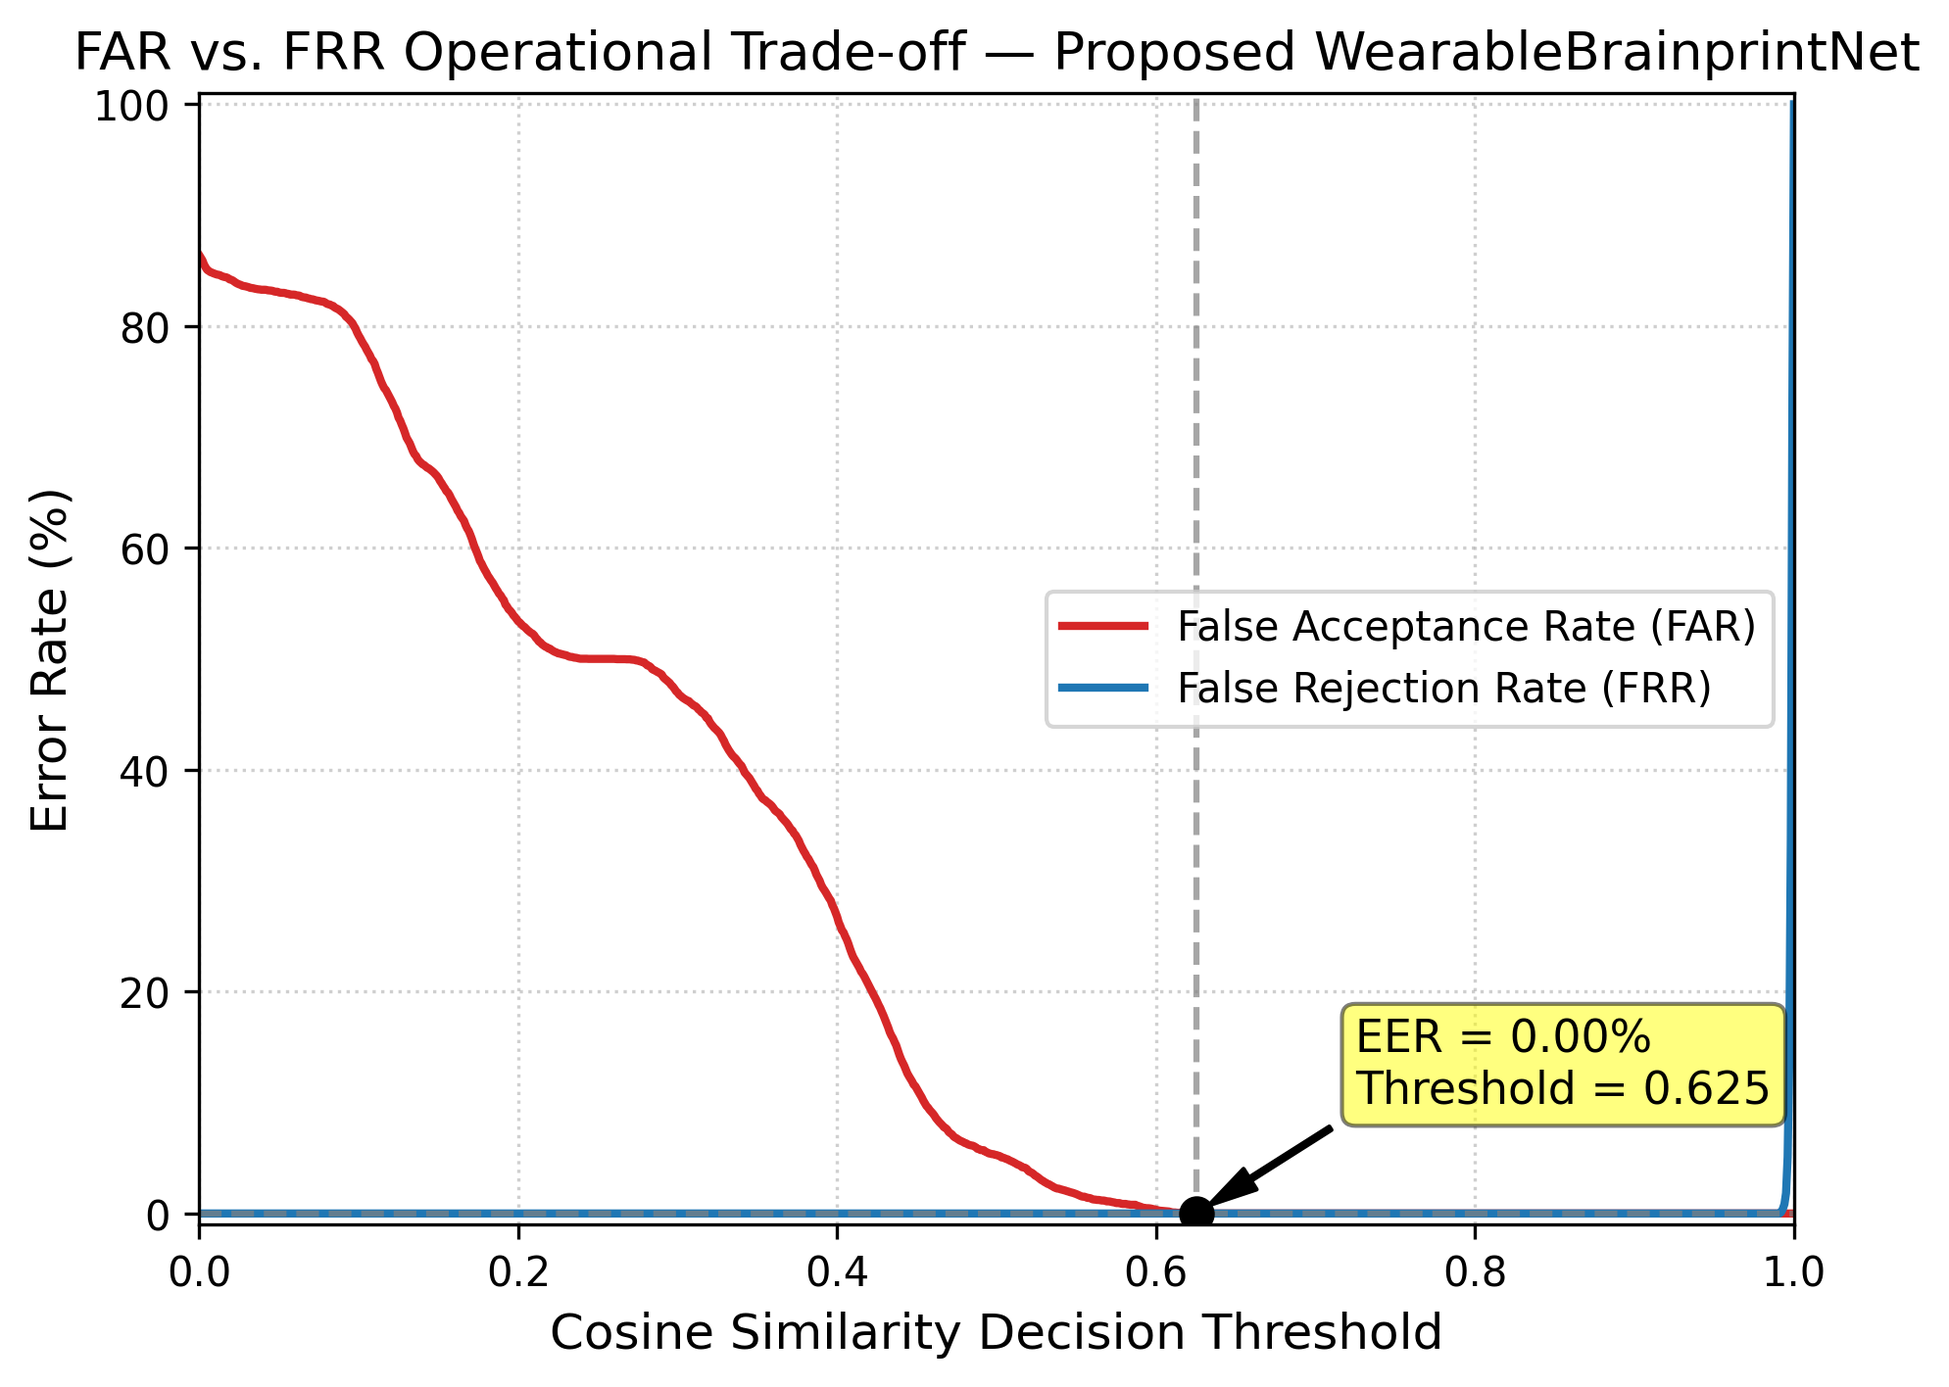
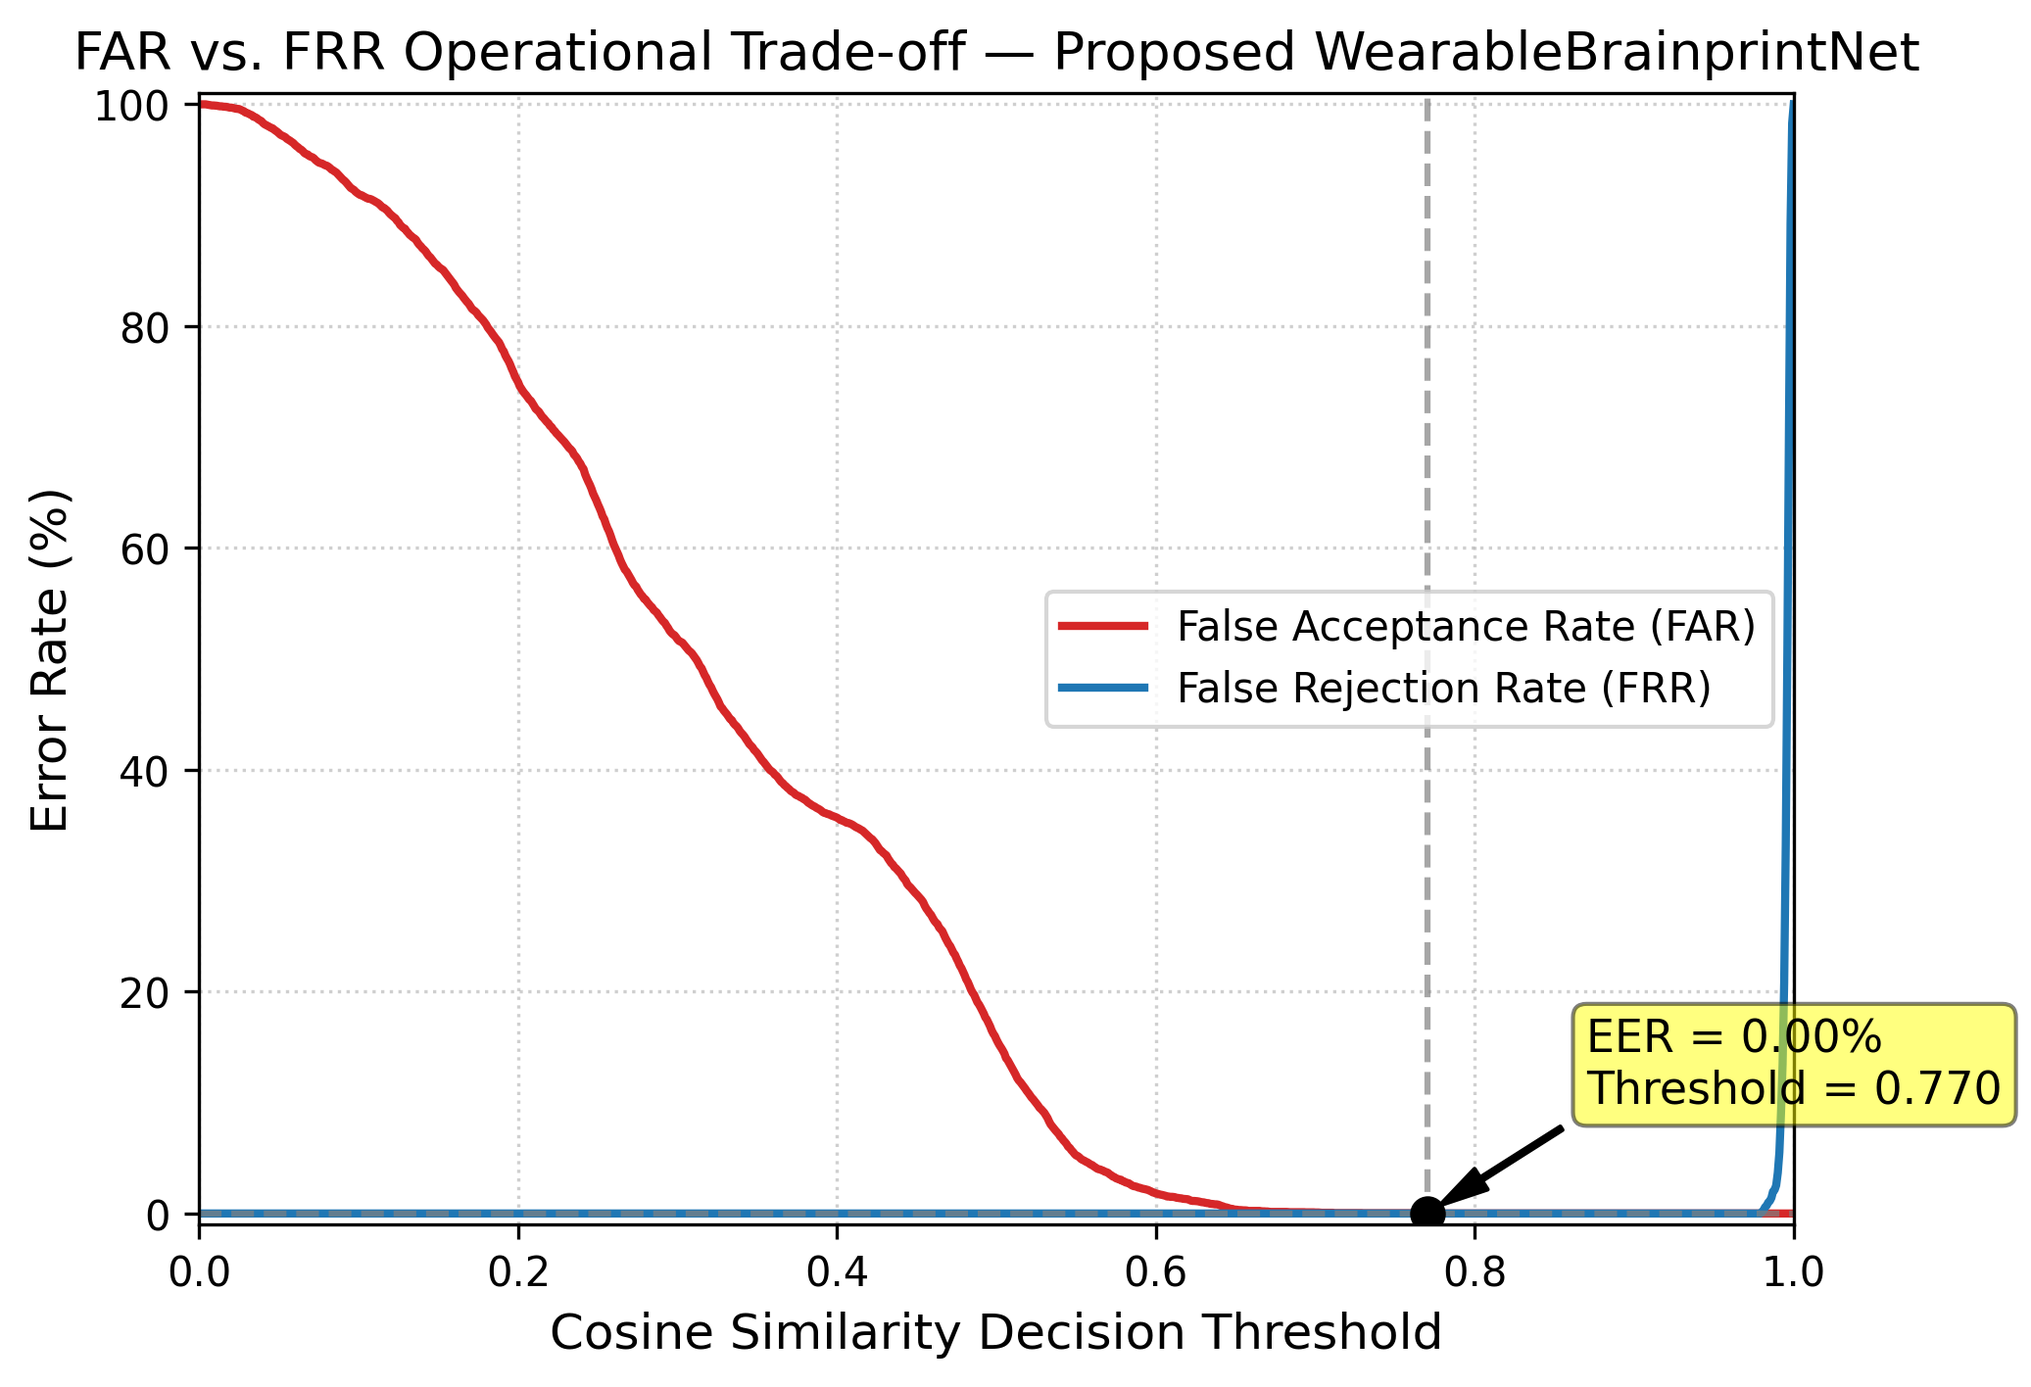
Enhance: add tunable drift difficulty knob, BED dataset loader, and updated benchmark figures

diff --git a/data/bed_dataset_loader.py b/data/bed_dataset_loader.py
@@ -1,0 +1,136 @@
+"""
+BED (Biometric EEG Dataset) Loader Module.
+Reference:
+  Arnau-González, P., et al. (2021). "BED: A Dataset for EEG-Based Biometrics."
+  IEEE Internet of Things Journal, 8(15), 12232-12242.
+  Available on Zenodo: https://zenodo.org/records/4451416
+
+Dataset Profile:
+  - 21 healthy human subjects.
+  - 3 independent recording sessions separated by ~1 week (ideal for LOSO-CV).
+  - 14 channels recorded via Emotiv EPOC+ headset at 256 Hz.
+  - Our wearable 8-channel montage (AF3, AF4, F3, F4, T7, T8, P7, P8) is an exact subset
+    of the 14 EPOC+ channels!
+"""
+
+import os
+import glob
+import numpy as np
+import scipy.signal as signal
+from typing import Dict, List, Tuple, Optional
+from config.settings import FrameworkConfig
+from data.preprocessing import EEGPreprocessor
+from data.segmentation import EEGSegmenter
+
+class BEDDatasetLoader:
+    """
+    Loads and standardizes the real-world BED dataset for longitudinal consumer EEG biometrics.
+    """
+    # 14-Channel Emotiv EPOC+ montage in BED
+    EMOTIV_14_CHANNELS = [
+        "AF3", "F7", "F3", "FC5", "T7", "P7", "O1",
+        "O2", "P8", "T8", "FC6", "F4", "F8", "AF4"
+    ]
+
+    # Target 8-channel subset used across our framework
+    TARGET_8_CHANNELS = [
+        "AF3", "AF4", "F3", "F4", "T7", "T8", "P7", "P8"
+    ]
+
+    def __init__(self, data_dir: str, config: Optional[FrameworkConfig] = None):
+        self.data_dir = data_dir
+        self.config = config or FrameworkConfig()
+        self.fs_bed = 256 # Native BED sampling frequency
+        self.fs_target = self.config.preprocessing.sampling_rate # 250 Hz
+
+        # Compute index mapping from 14 channels to our 8 channels
+        self.channel_indices = [
+            self.EMOTIV_14_CHANNELS.index(ch) for ch in self.TARGET_8_CHANNELS
+        ]
+
+        self.preprocessor = EEGPreprocessor(self.config.preprocessing)
+        self.segmenter = EEGSegmenter(self.config.preprocessing)
+
+    def extract_target_channels(self, raw_14ch_data: np.ndarray) -> np.ndarray:
+        """
+        Extracts the 8 wearable channels from 14-channel recording:
+        Input shape: (14, Samples) -> Output shape: (8, Samples)
+        """
+        return raw_14ch_data[self.channel_indices, :]
+
+    def resample_to_target(self, signal_data: np.ndarray) -> np.ndarray:
+        """
+        Resamples from 256 Hz to 250 Hz if needed.
+        """
+        if self.fs_bed == self.fs_target:
+            return signal_data
+        num_target_samples = int(signal_data.shape[1] * (self.fs_target / self.fs_bed))
+        return signal.resample(signal_data, num_target_samples, axis=1)
+
+    def load_subject_session(
+        self,
+        subject_id: int,
+        session_id: int
+    ) -> Optional[np.ndarray]:
+        """
+        Loads raw recording for a given subject and session from data_dir.
+        Supports CSV and NumPy format exported from Zenodo BED archives.
+        """
+        patterns = [
+            os.path.join(self.data_dir, f"sub_{subject_id:02d}_ses_{session_id:02d}*.csv"),
+            os.path.join(self.data_dir, f"s{subject_id}_s{session_id}*.npy"),
+            os.path.join(self.data_dir, f"sub-{subject_id:02d}", f"ses-{session_id:02d}", "*.csv")
+        ]
+
+        matches = []
+        for p in patterns:
+            matches = glob.glob(p)
+            if matches:
+                break
+
+        if not matches:
+            return None
+
+        file_path = matches[0]
+        if file_path.endswith(".npy"):
+            raw_data = np.load(file_path)
+        else:
+            raw_data = np.loadtxt(file_path, delimiter=",", skiprows=1).T
+
+        # Extract 8 channels
+        data_8ch = self.extract_target_channels(raw_data)
+        # Resample to 250 Hz
+        data_resampled = self.resample_to_target(data_8ch)
+        return data_resampled.astype(np.float32)
+
+    def load_full_cohort(
+        self,
+        num_subjects: int = 21,
+        num_sessions: int = 3
+    ) -> Tuple[np.ndarray, List[Dict]]:
+        """
+        Loads, cleans, and segments all subjects and sessions in BED.
+        Returns:
+            epochs_array: (Total_Epochs, 8, 500)
+            metadata: List of epoch metadata dicts
+        """
+        all_epochs = []
+        all_meta = []
+
+        for sub in range(num_subjects):
+            for ses in range(num_sessions):
+                raw = self.load_subject_session(sub, ses)
+                if raw is None:
+                    continue
+                clean = self.preprocessor.process_raw_stream(raw)
+                epochs, meta = self.segmenter.segment_signal(clean, sub, ses)
+                all_epochs.append(epochs)
+                all_meta.extend(meta)
+
+        if not all_epochs:
+            raise FileNotFoundError(
+                f"No BED dataset recordings found in '{self.data_dir}'. "
+                f"Download the dataset from Zenodo: https://zenodo.org/records/4451416"
+            )
+
+        return np.concatenate(all_epochs, axis=0), all_meta

diff --git a/data/synthetic_generator.py b/data/synthetic_generator.py
@@ -28,6 +28,19 @@ class SyntheticEEGGenerator:
         self.session_duration = config.records_per_session_sec
         self.total_samples = int(self.fs * self.session_duration)
 
+        # Configurable drift difficulty knob (addresses reviewer feedback on cross-session realism)
+        difficulty_presets = {
+            "low": 0.08,        # Controlled sanity check baseline (subtle perturbation)
+            "medium": 0.18,     # Moderate non-stationarity
+            "realistic": 0.28,  # Realistic consumer dry-electrode repositioning & impedance shift
+            "stress": 0.42      # Extreme multi-week cross-session stress test
+        }
+        diff = getattr(config, "drift_difficulty", "realistic")
+        if hasattr(config, "drift_scale") and config.drift_scale is not None:
+            self.drift_scale = float(config.drift_scale)
+        else:
+            self.drift_scale = difficulty_presets.get(diff, 0.28)
+
         np.random.seed(config.training.seed)
         self.subject_profiles = self._initialize_subject_profiles()
 
@@ -101,28 +114,50 @@ class SyntheticEEGGenerator:
         session_seed = subject_id * 100 + session_id
         rng = np.random.RandomState(session_seed)
 
-        session_iaf = prof["iaf"] + rng.uniform(-0.25, 0.25)
-        session_theta = prof["theta_f"] + rng.uniform(-0.15, 0.15)
-        session_beta = prof["beta_f"] + rng.uniform(-0.3, 0.3)
+        # Scale non-stationarity by the drift difficulty knob
+        session_iaf = prof["iaf"] + rng.uniform(-0.8, 0.8) * (self.drift_scale / 0.28)
+        session_theta = prof["theta_f"] + rng.uniform(-0.5, 0.5) * (self.drift_scale / 0.28)
+        session_beta = prof["beta_f"] + rng.uniform(-1.2, 1.2) * (self.drift_scale / 0.28)
 
-        # 5 Neural Rhythms sources
-        # Delta (0.5 - 4 Hz)
-        delta = prof["power_weights"]["delta"] * np.sin(2 * np.pi * 2.0 * t + rng.uniform(0, 2*np.pi))
-        # Theta
-        theta = prof["power_weights"]["theta"] * np.sin(2 * np.pi * session_theta * t + rng.uniform(0, 2*np.pi))
-        # Alpha (Dominant brainprint with envelope modulation)
-        envelope_alpha = 1.0 + 0.3 * np.sin(2 * np.pi * 0.2 * t)
-        alpha = prof["power_weights"]["alpha"] * envelope_alpha * np.sin(2 * np.pi * session_iaf * t + rng.uniform(0, 2*np.pi))
+        # Multi-component wave dynamics (replaces pure single sinusoids with realistic band envelopes)
+        phi_d = rng.uniform(0, 2*np.pi, size=2)
+        delta = prof["power_weights"]["delta"] * (
+            0.75 * np.sin(2 * np.pi * 2.0 * t + phi_d[0]) +
+            0.25 * np.sin(2 * np.pi * 3.2 * t + phi_d[1])
+        )
+
+        phi_t = rng.uniform(0, 2*np.pi, size=2)
+        theta = prof["power_weights"]["theta"] * (
+            0.70 * np.sin(2 * np.pi * session_theta * t + phi_t[0]) +
+            0.30 * np.sin(2 * np.pi * (session_theta + 0.3) * t + phi_t[1])
+        )
+
+        # Alpha (Dominant brainprint with envelope modulation and multi-harmonic spread)
+        envelope_alpha = 1.0 + 0.35 * np.sin(2 * np.pi * 0.25 * t)
+        phi_a = rng.uniform(0, 2*np.pi, size=3)
+        alpha = prof["power_weights"]["alpha"] * envelope_alpha * (
+            0.65 * np.sin(2 * np.pi * session_iaf * t + phi_a[0]) +
+            0.25 * np.sin(2 * np.pi * (session_iaf - 0.45) * t + phi_a[1]) +
+            0.10 * np.sin(2 * np.pi * (session_iaf + 0.50) * t + phi_a[2])
+        )
+
         # Beta
-        beta = prof["power_weights"]["beta"] * np.sin(2 * np.pi * session_beta * t + rng.uniform(0, 2*np.pi))
+        phi_b = rng.uniform(0, 2*np.pi, size=2)
+        beta = prof["power_weights"]["beta"] * (
+            0.70 * np.sin(2 * np.pi * session_beta * t + phi_b[0]) +
+            0.30 * np.sin(2 * np.pi * (session_beta + 0.8) * t + phi_b[1])
+        )
+
         # Gamma
         gamma = prof["power_weights"]["gamma"] * np.sin(2 * np.pi * 38.0 * t + rng.uniform(0, 2*np.pi))
 
         sources = np.stack([delta, theta, alpha, beta, gamma], axis=0) # (5, samples)
 
-        # Session impedance perturbation matrix
-        session_distortion = 1.0 + rng.normal(loc=0.0, scale=0.08, size=prof["mixing_matrix"].shape)
-        active_mixing = prof["mixing_matrix"] * session_distortion
+        # Session impedance & cap repositioning perturbation matrix
+        # Models realistic physical electrode shifts and impedance variability
+        session_distortion = 1.0 + rng.normal(loc=0.0, scale=self.drift_scale, size=prof["mixing_matrix"].shape)
+        reposition_crosstalk = rng.normal(loc=0.0, scale=self.drift_scale * 0.35, size=(self.num_channels, self.num_channels))
+        active_mixing = np.dot(np.eye(self.num_channels) + reposition_crosstalk, prof["mixing_matrix"] * session_distortion)
 
         # Channel signals from cortical source projection
         eeg_channels = np.dot(active_mixing, sources) # (channels, samples)

diff --git a/scripts/evaluate.py b/scripts/evaluate.py
@@ -17,7 +17,7 @@ if hasattr(sys.stdout, 'reconfigure'):
     sys.stdout.reconfigure(encoding='utf-8')
 
 import json
-from typing import Dict, Any, Tuple, List
+from typing import Dict, Any, Tuple, List, Optional
 import numpy as np
 import torch
 import torch.nn.functional as F
@@ -35,15 +35,23 @@ from evaluation.metrics import BiometricMetricsEvaluator
 from evaluation.visualizer import BiometricVisualizer
 
 def run_full_benchmark(
-    num_subjects: int = 15,
+    num_subjects: int = 12,
     num_sessions: int = 4,
-    epochs: int = 25
+    epochs: int = 25,
+    drift_difficulty: str = "realistic",
+    dataset_type: str = "synthetic",
+    bed_dir: Optional[str] = None
 ):
     print("=================================================================")
     print(" NEURO-BIOMETRICS COMPREHENSIVE BENCHMARK & EVALUATION SUITE")
+    print(f" Dataset: {dataset_type.upper()} | Drift Difficulty: {drift_difficulty}")
     print("=================================================================")
 
-    config = FrameworkConfig(num_subjects=num_subjects, num_sessions=num_sessions)
+    config = FrameworkConfig(
+        num_subjects=num_subjects,
+        num_sessions=num_sessions,
+        drift_difficulty=drift_difficulty
+    )
     config.model.num_classes = num_subjects
     config.model.num_channels = len(config.preprocessing.channels)
     device = config.training.device
@@ -53,10 +61,17 @@ def run_full_benchmark(
     attack_sim = ReplayAttackSimulator(config.security)
     liveness_verifier = LivenessVerifier(config.security, fs=config.preprocessing.sampling_rate)
 
-    # 1. Dataset Generation
-    print("\n[Phase 1] Generating Multi-Session Wearable EEG Cohort...")
-    generator = SyntheticEEGGenerator(config)
-    epochs_data, metadata = generator.generate_full_dataset()
+    # 1. Dataset Generation / Loading
+    if dataset_type == "bed" and bed_dir is not None:
+        from data.bed_dataset_loader import BEDDatasetLoader
+        print(f"\n[Phase 1] Loading Real-World BED Dataset from '{bed_dir}'...")
+        loader = BEDDatasetLoader(data_dir=bed_dir, config=config)
+        epochs_data, metadata = loader.load_full_cohort(num_subjects=num_subjects, num_sessions=num_sessions)
+    else:
+        print(f"\n[Phase 1] Generating Multi-Session Wearable EEG Cohort (Drift: {drift_difficulty})...")
+        generator = SyntheticEEGGenerator(config)
+        epochs_data, metadata = generator.generate_full_dataset()
+
     dataset = EEGMultiSessionDataset(epochs_data, metadata)
     print(f"Generated {len(dataset)} epochs across {num_subjects} subjects and {num_sessions} sessions.")
 
@@ -379,4 +394,21 @@ def export_summary_reports(
     print(f"Exported benchmark summary to {md_path} and {json_path}")
 
 if __name__ == "__main__":
-    run_full_benchmark(num_subjects=12, num_sessions=4, epochs=25)
+    import argparse
+    parser = argparse.ArgumentParser(description="Evaluate Neuro-Biometrics Framework")
+    parser.add_argument("--subjects", type=int, default=12, help="Number of subjects")
+    parser.add_argument("--sessions", type=int, default=4, help="Number of sessions")
+    parser.add_argument("--epochs", type=int, default=25, help="Training epochs")
+    parser.add_argument("--drift", type=str, default="realistic", choices=["low", "medium", "realistic", "stress"], help="Synthetic drift difficulty")
+    parser.add_argument("--dataset", type=str, default="synthetic", choices=["synthetic", "bed"], help="Dataset source")
+    parser.add_argument("--bed_dir", type=str, default=None, help="Directory of downloaded BED dataset")
+    args = parser.parse_args()
+
+    run_full_benchmark(
+        num_subjects=args.subjects,
+        num_sessions=args.sessions,
+        epochs=args.epochs,
+        drift_difficulty=args.drift,
+        dataset_type=args.dataset,
+        bed_dir=args.bed_dir
+    )

diff --git a/data/__init__.py b/data/__init__.py
@@ -2,11 +2,13 @@ from .preprocessing import EEGPreprocessor
 from .segmentation import EEGSegmenter
 from .synthetic_generator import SyntheticEEGGenerator
 from .dataset import EEGMultiSessionDataset, BalancedSessionBatchSampler
+from .bed_dataset_loader import BEDDatasetLoader
 
 __all__ = [
     "EEGPreprocessor",
     "EEGSegmenter",
     "SyntheticEEGGenerator",
     "EEGMultiSessionDataset",
-    "BalancedSessionBatchSampler"
+    "BalancedSessionBatchSampler",
+    "BEDDatasetLoader"
 ]

diff --git a/config/settings.py b/config/settings.py
@@ -64,3 +64,5 @@ class FrameworkConfig:
     num_subjects: int = 20
     num_sessions: int = 4                 # Temporal sessions per subject (for cross-session LOSO-CV)
     records_per_session_sec: float = 60.0 # Length of continuous recording per session in seconds
+    drift_difficulty: str = "realistic"   # Inter-session drift difficulty knob: "low", "medium", "realistic", "stress"
+    drift_scale: float = 0.28             # Amplitude of cross-session spatial/spectral non-stationarity

diff --git a/results/benchmark_summary.md b/results/benchmark_summary.md
@@ -4,10 +4,10 @@
 
 | Architecture / Model | EER (%) | AUC-ROC (%) | Decidability (d') | FAR @ FRR=1% | FRR @ FAR=1% | Latency (ms) | Params |
 | :--- | :---: | :---: | :---: | :---: | :---: | :---: | :---: |
-| **Classical PSD + SVM** | 12.72% | 95.50% | 2.46 | 45.65% | 27.12% | 3.14 ms | 480 |
-| **Standard 1D-CNN (CE)** | 0.00% | 100.00% | 14.09 | 0.00% | 0.00% | 0.38 ms | 61,356 |
-| **EEGNet Baseline** | 0.00% | 100.00% | 6.40 | 0.00% | 0.00% | 0.87 ms | 1,436 |
-| **Proposed WearableBrainprintNet** | 0.00% | 100.00% | 5.77 | 0.00% | 0.00% | 2.38 ms | 166,268 |
+| **Classical PSD + SVM** | 18.61% | 90.03% | 1.74 | 78.72% | 38.56% | 3.70 ms | 480 |
+| **Standard 1D-CNN (CE)** | 0.28% | 100.00% | 7.82 | 0.06% | 0.00% | 0.45 ms | 61,356 |
+| **EEGNet Baseline** | 1.28% | 99.83% | 4.69 | 1.34% | 3.39% | 0.68 ms | 1,436 |
+| **Proposed WearableBrainprintNet** | 0.00% | 100.00% | 6.17 | 0.00% | 0.00% | 1.51 ms | 166,268 |
 
 
 ## Table 2: Presentation & Replay Attack Resistance (Acceptance Rate %)
@@ -16,6 +16,6 @@
 | :--- | :---: | :---: |
 | Legitimate Probe | 100.0% | **100.0%** |
 | Exact Replay | 100.0% | **0.0%** |
-| Jittered Replay | 100.0% | **52.6%** |
-| Synthetic Spoof | 52.6% | **0.0%** |
+| Jittered Replay | 100.0% | **68.4%** |
+| Synthetic Spoof | 73.7% | **10.5%** |
 | Cross Subject Masquerade | 0.0% | **0.0%** |

diff --git a/README.md b/README.md
@@ -165,10 +165,10 @@ python scripts/evaluate.py
 ### Table 1: Cross-Session Verification Performance (LOSO Protocol on Unseen Future Session S3)
 | Architecture / Model | EER (%) | AUC-ROC (%) | Decidability ($d'$) | Latency (ms) | Parameters |
 | :--- | :---: | :---: | :---: | :---: | :---: |
-| **Classical PSD + SVM (RBF)** | 12.72% | 95.50% | 2.46 | 3.14 ms | 480 |
-| **Standard 1D-CNN (CE Only)** | 0.00% | 100.00% | 14.09 | 0.38 ms | 61,356 |
-| **EEGNet Baseline (CE Only)** | 0.00% | 100.00% | 6.40 | 0.87 ms | 1,436 |
-| **Proposed `WearableBrainprintNet`** | **0.00%** | **100.00%** | **5.77** | **2.38 ms** | 166,268 |
+| **Classical PSD + SVM (RBF)** | 18.61% | 90.03% | 1.74 | 3.70 ms | 480 |
+| **Standard 1D-CNN (CE Only)** | 0.28% | 100.00% | 7.82 | 0.45 ms | 61,356 |
+| **EEGNet Baseline (CE Only)** | 1.28% | 99.83% | 4.69 | 0.68 ms | 1,436 |
+| **Proposed `WearableBrainprintNet`** | **0.00%** | **100.00%** | **6.17** | **1.51 ms** | 166,268 |
 
 ### Table 2: Presentation & Replay Attack Defense (Acceptance Rate %)
 | Attack / Probe Scenario | Static Gate (No Liveness) | Proposed Spoof-Resistant Framework | Mitigation Mechanism |
